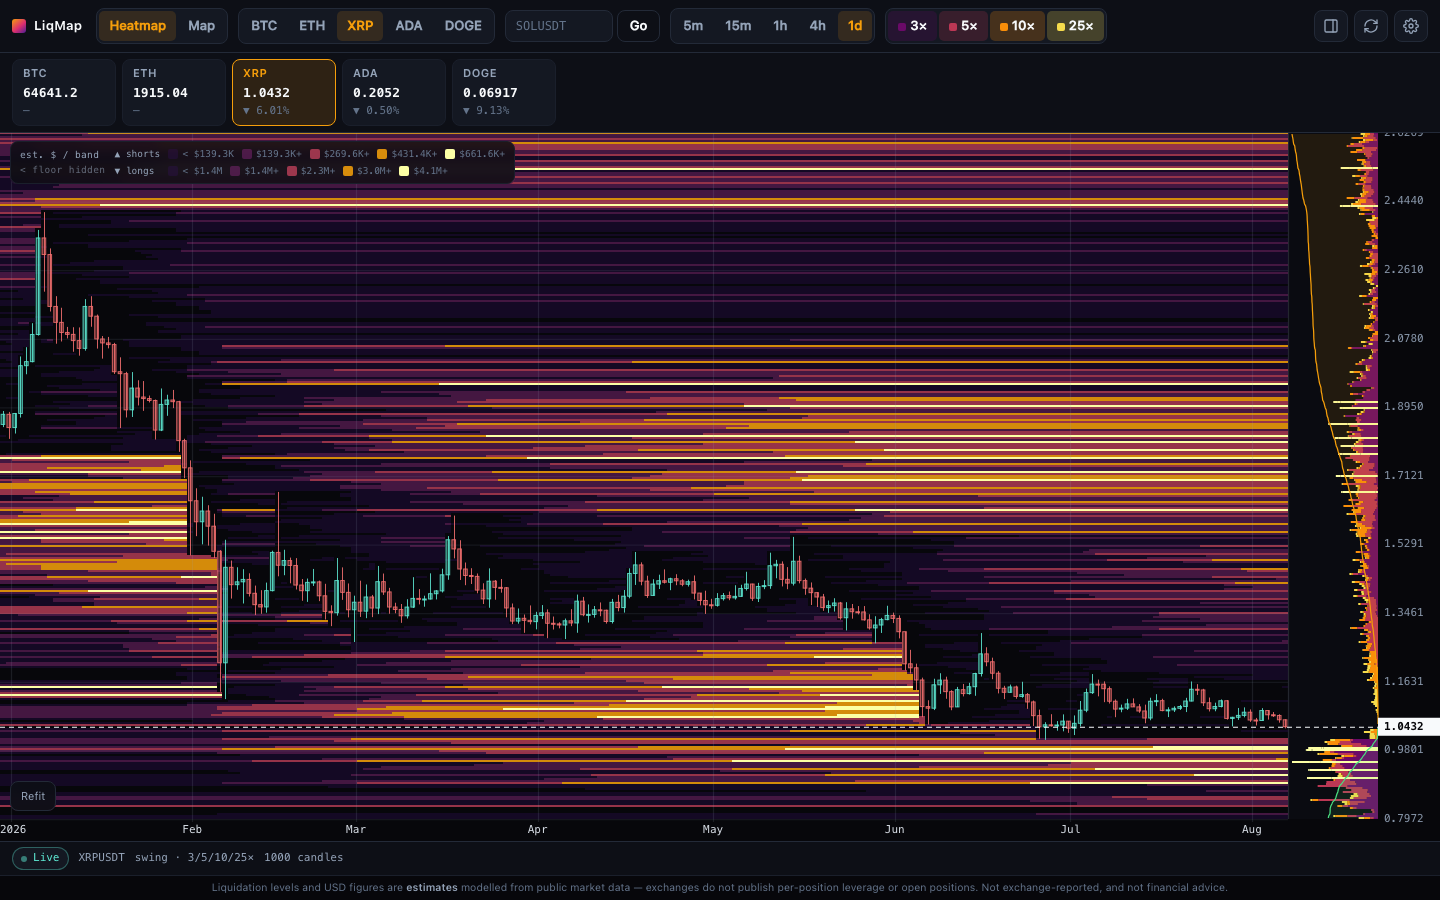
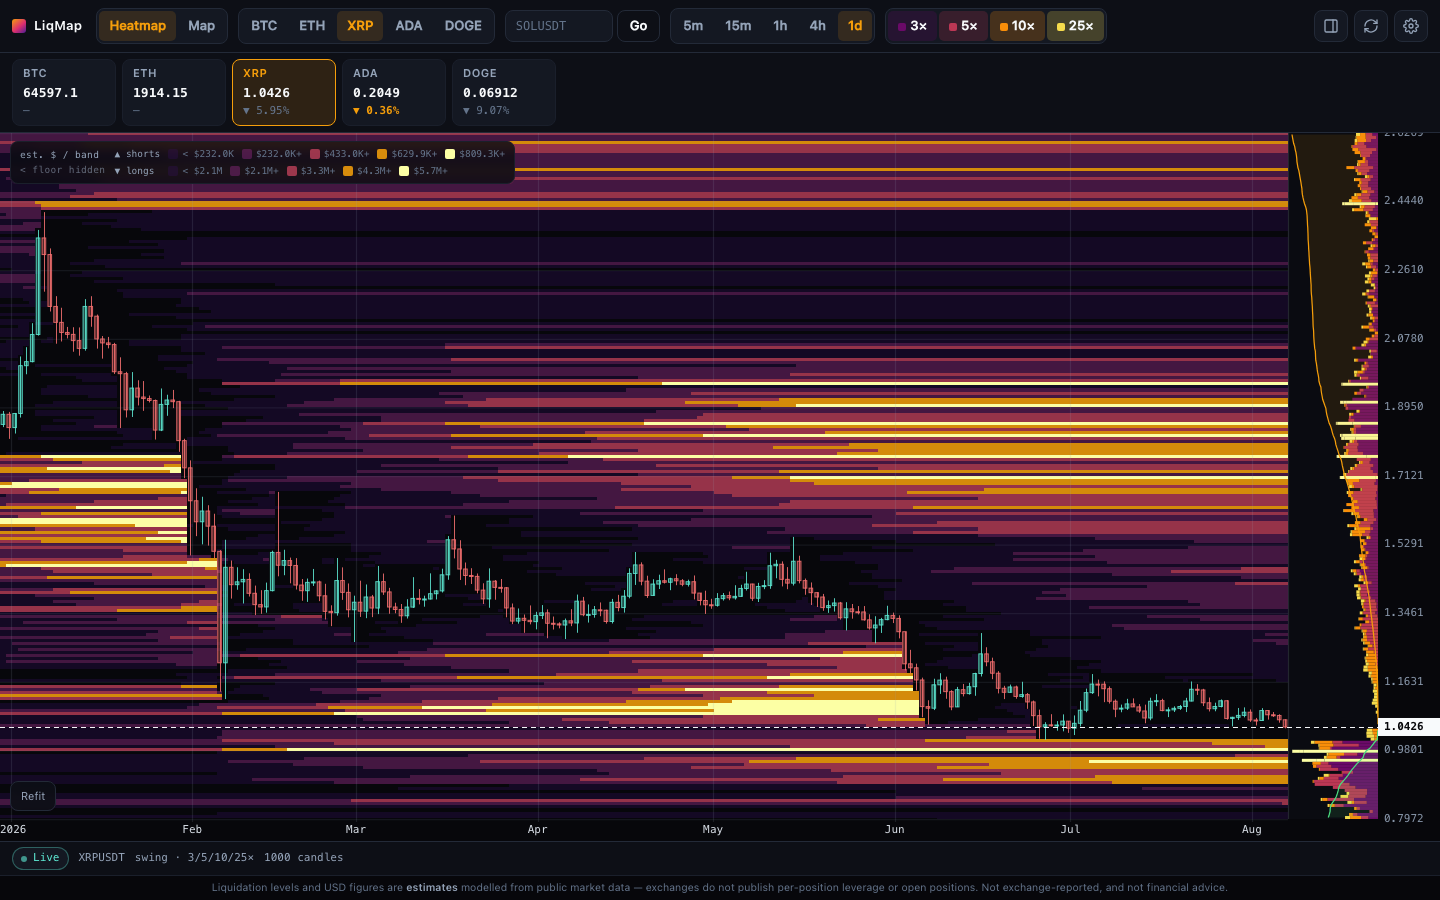
docs: coherent-bands rendering + before/after captures

Changed region(s): [[0.0, 0.0933, 0.9688, 0.9333]]

diff --git a/README.md b/README.md
@@ -150,8 +150,11 @@ For each closed candle, oldest first:
    `turnover × clamp(1 + 8·max(ΔOI/OI, 0), 1, 3)`
    split across four tiers as `[0.35, 0.30, 0.20, 0.15]`, then **halved between the long and
    short side** so a candle's dollars are counted once rather than twice.
-   Long liquidation at `entry·(1 − 1/L)`, short at `entry·(1 + 1/L)`.
-   With no clearing or decay, the grid sums to exactly `Σ turnover × oiFactor`.
+   Long liquidation at `entry·(1 − 1/L)`, short at `entry·(1 + 1/L)`, each level spread
+   over a small triangular kernel (`0.25/0.5/0.25` across three buckets — an entry is not
+   at one exact tick, and a one-bucket needle claims precision the model does not have).
+   Edge shares fold back in, so with no clearing or decay the grid still sums to exactly
+   `Σ turnover × oiFactor`.
 4. **Snapshot** the live vector into column `t`.
 
 Decay comes before seeding so a candle's own entries land at full weight — they were opened
@@ -173,8 +176,18 @@ costs cross-side comparability, which the tooltip and the side panel still give 
 buys back the structure of whichever half is quieter. The legend carries a row per side. Two ramps ship: **Inferno (classes)** by default and a **Classic**
 blue→cyan→green→yellow→red where red is heaviest; the choice lives in Settings and drives
 the raster, the side panel and the Map together. A legend labels each class with its est.
-USD floor. The raster is drawn at native bucket resolution and upscaled with smoothing off,
-so buckets stay crisp.
+USD floor, and notes that the faintest quarter of class 0 is hidden entirely — a noise
+floor that keeps the ground clean dark instead of dim speckle.
+
+The raster is drawn at **display-row** resolution, not bucket resolution: when the visible
+bucket span exceeds what the plot can show at ≥3px per row, each row takes the *sum* of the
+buckets it owns (mass conserved, so the class ladder stays honest), and zooming in returns
+naturally to one bucket per row. Before this, one source pixel per bucket meant the blit's
+nearest-neighbour sampling silently discarded every bucket that didn't land on an output
+row — levels flickered with zoom and the chart read as 1px static. The side panel is built
+on the same row grid, so bars are exactly as tall as the bands they describe. A "Smooth
+rendering" toggle (default on) softens band edges on the upscale; off keeps crisp blocks.
+Display only — tooltips read the raw buckets either way.
 
 ### Time axis
 
